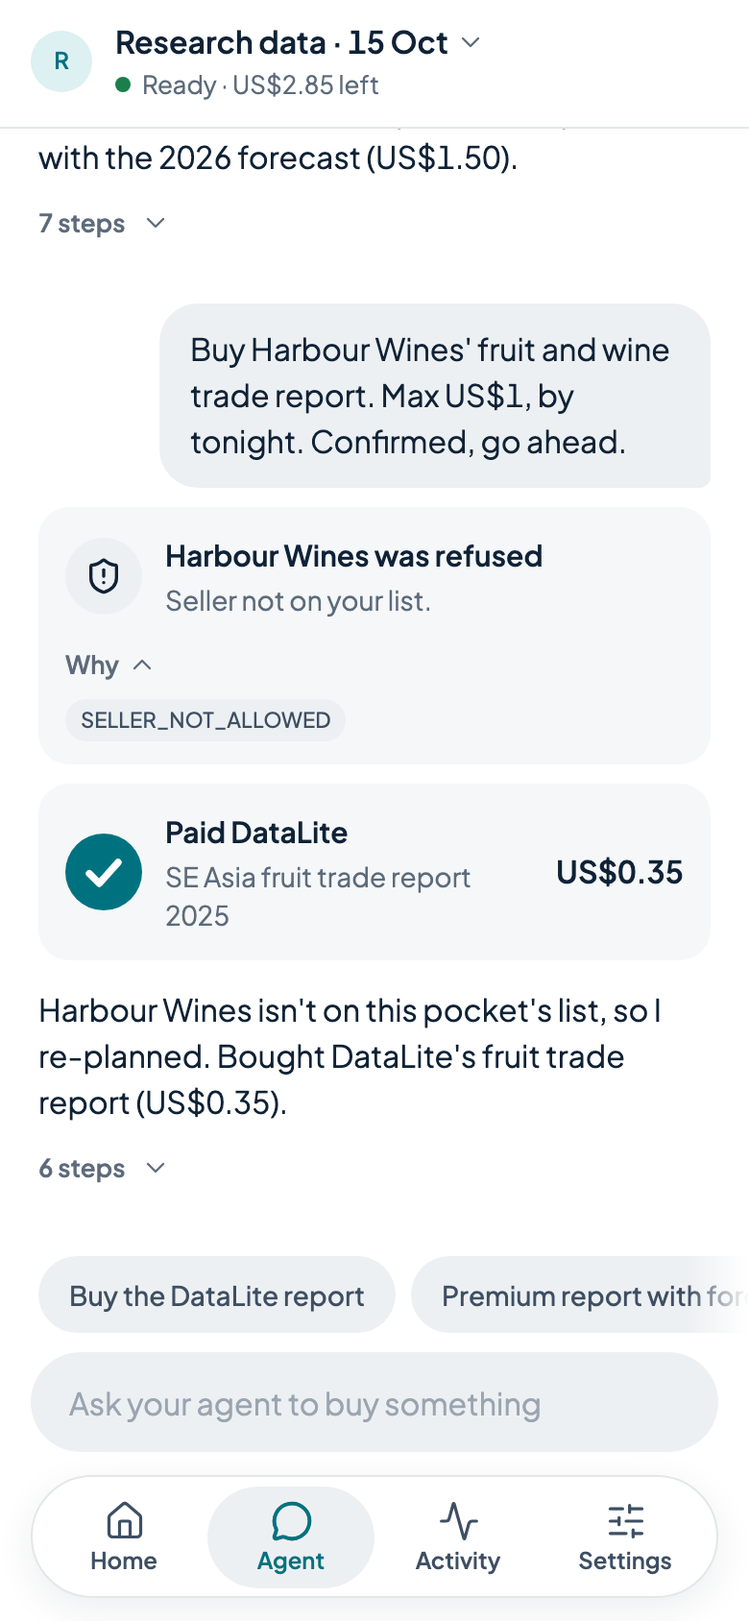
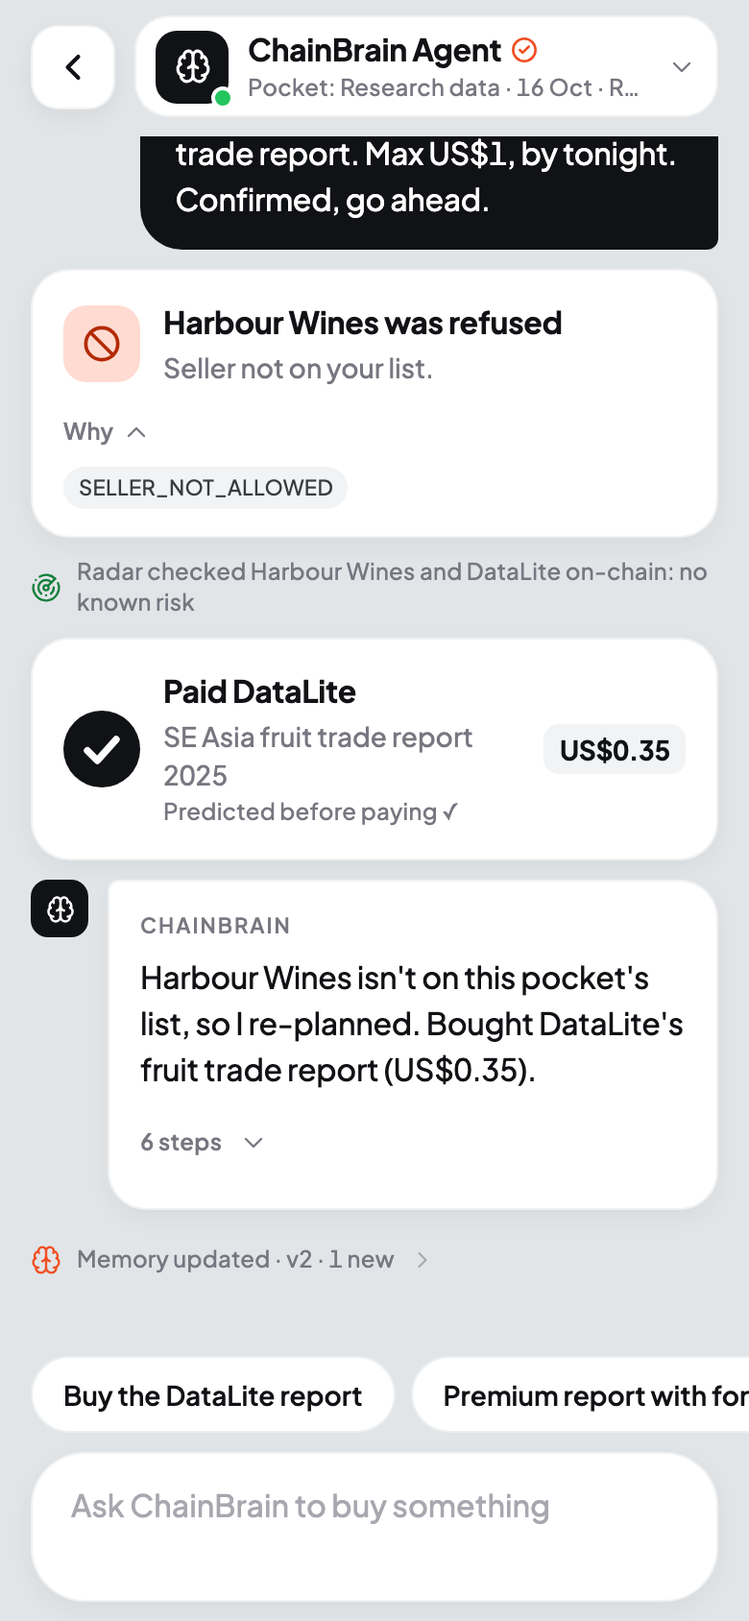
Docs and screenshots for the Neo-Kinetic build
mobile.md, web.md and the frontend README describe the new design, the agents
on the built-in network, revoke-and-return, the new screens and the extended
auto-play, with the 16 Oct check results (phone 34/34, built-in e2e 45/45, sim
32/32, web 76/76). The runbook's auto-play step now starts from the chat
header. The plan records what shipped and what changed. Built-in screenshots
refreshed, six new ones for Agents, Claude, the inbox and consent.

diff --git a/docs/frontend/mobile.md b/docs/frontend/mobile.md
@@ -1,6 +1,6 @@
 # ChainBrain phone app (Expo Go)
 
-The owner's app: the team's verified wallet logic in the clean-bank design (design-system/chainbrain/MASTER.md v3, deep teal + navy, light only). Code in `mobile/`.
+The owner's app: the team's verified wallet logic in the Neo-Kinetic Fintech design (design-system/chainbrain/MASTER.md v4: slate canvas, white cards, black ink, vermillion and powder-blue accents, 45° hatch, Plus Jakarta Sans; light only). Code in `mobile/`. Screen-by-screen plan and decisions: [neo-kinetic-plan.md](neo-kinetic-plan.md).
 
 **No login or setup.** The first launch creates the on-device key silently and opens Home. "Import a key" is in Settings only. The app opens on the **built-in network** on every launch (see below); a real server is opt-in in Settings.
 
@@ -15,7 +15,9 @@ EXPO_PUBLIC_API_URL=http://<laptop LAN IP>:8787 npx expo start       # address o
 
 ## Built-in network (default)
 
-`shared/sim` runs the wallet API, tool layer, scripted agent and the Pocket.sol rules in the app on a virtual chain (`src/lib/builtin.ts`). It is seeded with a lived-in owner: Research data (US$10 pocket, earlier purchases), One purchase (US$0.20 pocket), main wallet US$54.80. Every owner action, agent turn, co-sign and refusal works offline; scenes 1-8 play end to end. Paid cards show in chat, replies stream, and receipts say what was bought.
+`shared/sim` runs the wallet API, tool layer, scripted agent and the Pocket.sol rules in the app on a virtual chain (`src/lib/builtin.ts`). It is seeded with two weeks of real activity, produced by running the same plans through the world on a clock set back in time (`shared/sim/seed.ts`): Research data (held by ChainBrain's agent), Market news (held by **Claude**, connected 12 days ago), Trade quotes (held by **ChatGPT**, connected 9 days ago) and One purchase (ChainBrain, for scene 8); main wallet US$54.80. A little after launch Claude asks, in the Approvals inbox, to co-sign a premium report above its pocket's limit. Every owner action, agent turn, co-sign and refusal works offline; scenes 1-10 play end to end. Paid cards show in chat, replies stream, and receipts say what was bought.
+
+**Agents.** Each pocket names exactly one agent key (Pocket.sol `agent` is immutable); one agent can hold several pockets, each granted separately. Claude and ChatGPT are connected agents on the built-in network (`shared/sim/agents.ts`): they act through the same wallet tools as the in-app agent, so the pocket rules, Radar and the Sentinel decide for them too. **Disconnect** stops an agent and declines its open requests; the money stays in its pockets. **Revoke** (one hold) freezes a pocket for good and returns everything left to the main wallet: two owner transactions. On a real server only the built-in agent exists until ChainBrain's MCP server ships, so Connect is not offered there.
 
 It is meant for demos and offline use. Its hashes are not on a public chain, so they open in-app receipts and sheets, and BaseScan links appear only when connected to a real server on the public chain.
 
@@ -23,22 +25,24 @@ It is meant for demos and offline use. Its hashes are not on a public chain, so 
 
 **Link to the web console:** on the built-in network the phone quietly pushes its pockets and events to a relay (`src/lib/relay.ts`, backs off when none answers). On the laptop run `pnpm --dir devstack relay` (or the full `pnpm --dir devstack start`), start the phone with `EXPO_PUBLIC_API_URL=http://<laptop LAN IP>:8787`, and keep it on the built-in network. The console then mirrors the phone, and the Judges tab's plant and forced transfer run on the phone's pockets.
 
-## What a judge sees first (15 Oct round)
+## What a judge sees (Neo-Kinetic round, 16 Oct)
 
-- **Intro on every launch:** three pages ("Give your AI a pocket, not your wallet"; the limits live in a contract you own; the worst case is the pocket balance, only to sellers you allowed). Skip is always there, pages follow the finger, and it finishes into Home by itself in about 7 s (`src/components/Intro.tsx`).
-- **Pocket cards (Apple Wallet stack):** each pocket is a printed card with a solid navy or teal face: name, balance, cap, ask-me limit, valid-thru and a short pocket number. Tapping a card flies it into the pocket page (a measured overlay, since Expo Go has no shared-element transitions: `src/components/PocketStack.tsx`, `CardFlight.tsx`, `src/ui/cardFlight.ts`). Revoking freezes the card: a cool grey face, frost lines and a Warning haptic.
-- **ChainBrain explorer sheet:** every hash on the phone opens it: status, block, time, from, to, method and arguments, event logs, a plain summary, and "How it was checked" (the gates the payment or attack passed and the one that stopped it, codes under "Why"). A reverted transfer shows the on-chain error and the pocket rule that failed as separate rows. It says "Test network" on the built-in network and the local fork; "View on BaseScan" appears only against a real public-chain server (`src/components/ExplorerSheet.tsx`, `shared/sim/explorer.ts`).
-- **Attack cards:** when the laptop console attacks the phone's pocket, chat and Activity say so calmly: a fooled agent's transfer (reverted on-chain), the agent key's attempt to change the rules (NOT_OWNER), a request for private data (nothing shared) (`src/components/AttackCard.tsx`).
-- **Hidden auto-play (for the video):** long-press the Agent screen header for about 1.5 s. The phone then plays the whole story by itself at a natural pace: Home, New pocket, the Research preset through the wizard, slide to create and fund, then scenes 1, 4, 5 (plus the forced transfer), 6, the privilege-escalation attempt, 7 (hold to revoke, return funds), 8 (switch to One purchase, the dead end, the one-tap fix, ask again), and it ends on Home with the frozen card. Long-press again, or tap Stop, to end it. Every step presses the real control through a named target (`src/lib/autoplay.ts`, `src/lib/autoplayTargets.ts`), so a linked console follows it exactly as it follows a person. Nothing on screen shows it is running.
+- **Intro on every launch:** three pages, Skip always there, the finger drives the pager, about 7 s auto-advance. Page 1 fans out the owner's own pockets (names, short numbers, holding agents) over a hatch panel (`src/components/Intro.tsx`).
+- **Home:** the agent-pockets pool and the main wallet with Fund; Add money, New pocket and a powder-blue Connect tile; a **fanned pocket deck** (`PocketStack.tsx`, `PocketFace.tsx`): tap a card behind to deal it to the front, swipe to cycle, tap the front card to fly it into its page (a measured overlay that carries the card's rotation and width, `CardFlight.tsx`); agent spending as a hatch curve that draws in, with "vs last week" only when the history covers last week (`SpendChart.tsx`, `lib/agents.ts`); recent activity with the agent that acted.
+- **Agents tab:** ChainBrain's agent, Claude and ChatGPT with the pockets they hold, spent share, what they are doing; Agent detail with its own ledger, Give another pocket and hold-to-disconnect; **Connect** (pairing link and QR, then the consent sheet: a new pocket for the agent, can / can't, slide to allow).
+- **Approvals inbox** (the bell): every agent's waiting requests with their 10-minute countdown; the **approval sheet** separates what the wallet checked (item, pocket, rule, Radar's score, expiry) from the agent's own note, marked "not checked"; black slide track with a vermillion grip.
+- **Pocket page:** rule chips, Add / Return / Revoke tiles, worst case with main-wallet exposure US$0.00, spending by day as hatch bars split by seller, the holding agent, black seller toggles, history. Revoked: banner, white-hatch card, what came back, audit trail with a JSON export.
+- **Chat** (pushed from Agents or Home): black owner bubbles, the agent's words in white cards, green / vermillion / blue event cards, Radar cards that open the **Radar alert** page (diagnosis, money trail, affected pockets, Keep blocked or remove the seller).
+- **ChainBrain explorer sheet:** every hash opens it ("Test network"; "View on BaseScan" only against a real public-chain server).
+- **Hidden auto-play (for the video):** long-press the chat header for about 1.5 s. Scenes 1-8 as before (wizard, question, co-sign, refusal, injection plus the forced transfer, data grab, escalation, revoke, dead end and fix), then: Connect Claude (pairing, consent, its own pocket), confirm Claude's task and co-sign its payment from the inbox, scene 9 (Radar, opening the money trail) and scene 10 (Sentinel). Every step presses the real control through a named target (`src/lib/autoplay.ts`, `src/lib/autoplayTargets.ts`).
 
 ## Screens
 
-Home ("Ask agent" pill, Test network chip, pocket total and main wallet balance, round actions, the pocket card stack, recent activity), Agent (chat; tool steps folded under "Details"), Activity (filters, date groups), Settings (wallet, import key, network, Advanced: Custom server). Stack screens: pocket detail (Add, Return, Revoke round actions, editable cap and ask-me limit, seller switches, worst-case line, history with tx hashes), create wizard (sellers grouped by category). Every owner transaction (create, fund, return, revoke, rule change) shows its tx hash; the agent chat has "Stop agent" and a dead-end card with the sellers tried and a one-tap fix (scene 8). Sheets: approval (slide to approve), question, receipt, add money / return / revoke (hold to revoke).
-
+Tabs: Home, Agents, Brain, Activity, Settings (a floating white pill bar; the active tab is a black pill that slides). Stack screens: chat (`/agent`), Agent detail (`/agents/[id]`), Connect (`/connect`), Approvals (`/approvals`), Radar alert (`/radar`), pocket page (`/pocket/[id]`), create wizard (`/create`). Sheets: approval, consent, question, receipt, explorer, add money / return / revoke (hold), rules, pocket picker (ChainBrain's pockets only).
 
 ## Motion and haptics
 
-Spec: [design-system/chainbrain/pages/motion.md](../../design-system/chainbrain/pages/motion.md). Glass tab bar (iOS 26 Liquid Glass, blur on older iOS, solid on Android/web) with a sliding highlight, finger scrubbing and minimize-on-scroll; tabs slide in from the direction of travel and keep their state; sheets with drag physics, rubber-banding and keyboard lift; slide-to-approve and hold-to-revoke with ticks and a drawn success / error mark; rolling-digit balances; staggered first-load reveals; live agent steps with a status mark that draws its check; a calm three-dot working indicator. Rich haptics through `src/haptics.ts` (semantic, throttled). Everything honours Reduce Motion and Reduce Transparency.
+Spec: [design-system/chainbrain/pages/motion.md](../../design-system/chainbrain/pages/motion.md). Floating pill tab bar (solid white, no glass or blur) with a sliding black pill, finger scrubbing and minimize-on-scroll; the deck deals, swipes and flies; tabs slide in from the direction of travel and keep their state; sheets with drag physics, rubber-banding and keyboard lift; slide-to-approve and hold-to-revoke with ticks and a drawn success / error mark; rolling-digit balances; staggered first-load reveals; live agent steps with a status mark that draws its check; a calm three-dot working indicator. Rich haptics through `src/haptics.ts` (semantic, throttled). Charts draw in, hatch bars grow. Everything honours Reduce Motion.
 
 ## Where the logic is
 
@@ -49,7 +53,9 @@ Spec: [design-system/chainbrain/pages/motion.md](../../design-system/chainbrain/
 | `src/lib/runtime.ts` | data source (built-in or server), API URL, dev detection (`/dev/health`), RPC and explorer switching |
 | `src/lib/builtin.ts` | the in-app world from `shared/sim` |
 | `src/lib/relay.ts` | pushes the built-in network to the devstack relay for the web console |
-| `src/store.tsx` | polling, pending reconciliation, chat turns |
+| `src/lib/agents.ts` | agents and their numbers (pockets, spent, last active, requests today), daily spend, week over week, an agent's own ledger |
+| `src/store.tsx` | polling, pending reconciliation, chat turns, agents, approval focus (only the in-app agent's asks open the sheet by themselves) |
+| `src/tokens.ts`, `src/ui/*` | Neo-Kinetic tokens and kit (pill tab bar, tiles, hatch, agent marks, slide track); `src/lib/tokens.test.ts` keeps the palette identical to the console's |
 
 ## Dev mode
 
@@ -57,8 +63,8 @@ With a server chosen, `GET /dev/health` returning 200 switches the RPC to `<api>
 
 ## Checks
 
-`npm test` (25 tests, includes the co-sign payload and a full auto-play run against the built-in network), `npx tsc --noEmit`, `npx expo-doctor`, `npx expo export --platform web|ios`. Built-in network end to end: `node devstack/e2e/builtin.cjs --url http://localhost:8091` (scenes 1-8 plus intro, card stack and explorer sheet, 34 checks, no server needed). Dev stack end to end: `node devstack/e2e/e2e.cjs` (56 checks; switches the phone to the server with localStorage `cb.source=server`). Screenshots from the end-to-end run: `docs/frontend/screenshots/e2e-phone-*.png`.
+`npm test` (34 tests: the co-sign payload, agents and spending maths, the palette parity with the console, and a full auto-play run on the built-in network that includes Claude via Connect and the inbox and scenes 9-10), `npx tsc --noEmit`, `npx expo-doctor` (16 Oct: only `expo` / `expo-router` one patch behind the newest release), `npx expo export --platform web|ios` (the iOS Hermes bundle builds). Built-in network end to end: `node devstack/e2e/builtin.cjs --url http://localhost:8091` (45 checks on 16 Oct: intro, Home deck and spending, Agents and Claude's page, Claude's co-sign from the inbox, Connect + consent for ChatGPT, scenes 1-8, receipt and explorer, settings; no server needed). Dev stack end to end: `node devstack/e2e/e2e.cjs` (not re-run in the Neo-Kinetic round). Screenshots: `docs/frontend/screenshots/builtin/*.png` (refreshed 16 Oct), `docs/frontend/screenshots/neo/web-*.png`.
 
 ## Not verified
 
-Not run on a physical phone or in Expo Go itself (web export and iOS Hermes bundle only): haptics, Liquid Glass, 120 Hz motion, whether the card flight stays in step with the native fade, and iOS edge swipe-back on the pocket page are unverified. No dark mode.
+Not run on a physical phone or in Expo Go itself (web export and iOS Hermes bundle only): haptics, 120 Hz motion, the deck's deal and swipe under a real finger, whether the card flight (now rotating and scaling) stays in step with the native fade, the SVG hatch patterns on iOS, and iOS edge swipe-back on the pocket page are unverified. Slide and hold gestures were driven in Playwright with a real mouse. No dark mode.

diff --git a/docs/frontend/README.md b/docs/frontend/README.md
@@ -12,7 +12,7 @@ Combined on 14 Oct 2026 on branch `feat/integrate` (local, not pushed). It is th
 
 | `shared/sim/` | The built-in network both apps open on: wallet API, tool layer, scripted agent and Pocket.sol rules in-app, seeded owner, scenes 1-8 offline | (code, `shared/sim/world.test.ts`) |
 
-Design system: [design-system/chainbrain/MASTER.md](../../design-system/chainbrain/MASTER.md) (v3, clean bank after Ryt Bank and Revolut, deep teal + navy, light only). Reference screenshots: `reference/frontend/ryt-bank/` (gitignored).
+Design system: [design-system/chainbrain/MASTER.md](../../design-system/chainbrain/MASTER.md) (v4 Neo-Kinetic Fintech, after the Stitch export in `reference/frontend/stitch_chainbrain_ai_pocket_banking/`, gitignored; light only). Plan, screen map and decisions: [neo-kinetic-plan.md](neo-kinetic-plan.md).
 
 ## How the two builds were combined
 
@@ -20,7 +20,7 @@ The team's `web/` and `mobile/` were built against the v2 spec and the real serv
 
 ## Built-in network (default)
 
-Both apps open on a built-in network on every launch. `shared/sim` runs the wallet API, the tool layer, the scripted agent and the Pocket.sol rules in the app, on a virtual chain, seeded with a lived-in owner: a Research data pocket (US$10, earlier purchases), a One purchase pocket (US$0.20) and a main wallet of US$54.80. Scenes 1-8 work with no server and no internet. It is meant for demos and offline use; its hashes are not on a public chain, so the apps show in-app receipts and sheets for them and never link BaseScan.
+Both apps open on a built-in network on every launch. `shared/sim` runs the wallet API, the tool layer, the scripted agent and the Pocket.sol rules in the app, on a virtual chain, seeded with two weeks of real activity by three agents: Research data and One purchase (ChainBrain's agent), Market news (Claude) and Trade quotes (ChatGPT), main wallet US$54.80. Claude and ChatGPT are connected agents in the simulator (`shared/sim/agents.ts`) that use the same wallet tools and rules; on a real server only the built-in agent exists until an MCP server ships. Scenes 1-10 work with no server and no internet. It is meant for demos and offline use; its hashes are not on a public chain, so the apps show in-app receipts and sheets for them and never link BaseScan.
 
 **Use a real server instead:**
 
@@ -43,7 +43,7 @@ cd mobile && EXPO_PUBLIC_API_URL=http://<laptop LAN IP>:8787 npx expo start   # 
 pnpm --dir web dev               # the console finds the phone by itself
 ```
 
-The console then shows the phone's pockets first, by name, follows them, and holds its own story while the phone is linked. The Judges tab's attack arena, red-team plant and forced transfer run on the phone's pockets, and the phone's hidden auto-play (long-press the Agent header) drives the console exactly like a person would. With no phone (or no relay) the console is just the built-in network.
+The console then shows the phone's pockets first, by name, follows them, and holds its own story while the phone is linked. The Judges tab's attack arena, red-team plant and forced transfer run on the phone's pockets, and the phone's hidden auto-play (long-press the chat's header) drives the console exactly like a person would. With no phone (or no relay) the console is just the built-in network.
 
 ## Run it on a laptop with the dev stack (no keys needed)
 
@@ -71,7 +71,7 @@ Type the sentences from the [devstack scene table](../../devstack/README.md#demo
 
 Once a server is chosen (Custom server), both apps ask `GET /dev/health`. On the dev stack they show a **LOCAL FORK** badge, turn BaseScan links into plain hashes (fork hashes don't exist on Base Sepolia), and use `/dev/rpc` for the chain. On the team's real server that route is missing, so the badge disappears, BaseScan links work, the web uses MetaMask and the phone uses its own key on Base Sepolia. Nothing else changes.
 
-## Checks (all run on 15 Oct 2026)
+## Checks (Neo-Kinetic round, 16 Oct 2026: phone `npm test` 34/34, typecheck clean, iOS export builds; built-in e2e 45/45; sim 32/32; web 76/76, build and lint clean; dev-stack e2e not re-run. The table below is the 15 Oct run.)
 
 | Suite | Result |
 | --- | --- |

diff --git a/docs/frontend/neo-kinetic-plan.md b/docs/frontend/neo-kinetic-plan.md
@@ -1,6 +1,6 @@
 # Neo-Kinetic redesign: plan for mobile/ and web/
 
-15 Oct 2026. Status: **draft for review, no UI code written yet.** The open questions are at the end. Sources: the Stitch export in `reference/frontend/stitch_chainbrain_ai_pocket_banking/` (gitignored): `neo_kinetic_fintech/DESIGN.md`, 11 `chainbrain_*` screens, 4 `*_vaultbank_style` screens and 5 VaultBank shots. Read alongside `docs/frontend/mobile.md`, `docs/frontend/web.md` and `docs/02-product/product-design.md`.
+15 Oct 2026, built 15-16 Oct. Status: **built on local `main` (not pushed)**; decisions in sections 6 and 7, what shipped in section 8. Sources: the Stitch export in `reference/frontend/stitch_chainbrain_ai_pocket_banking/` (gitignored): `neo_kinetic_fintech/DESIGN.md`, 11 `chainbrain_*` screens, 4 `*_vaultbank_style` screens and 5 VaultBank shots. Read alongside `docs/frontend/mobile.md`, `docs/frontend/web.md` and `docs/02-product/product-design.md`.
 
 ## 0. Where the repo stands
 
@@ -237,3 +237,30 @@ Docs (`mobile.md`, `web.md`, screenshots) are updated at the end.
 - **No extra marking:** Claude and ChatGPT are treated like the rest of the built-in network, with no "preview" chip.
 - **Auto-play:** scenes 1–8 play as now, then: Agents → connect Claude (consent, create a pocket, Allow) → co-sign Claude's request from the inbox → scene 9 (Radar) → scene 10 (Sentinel). It ends on the fanned deck.
 - **Git:** one commit per slice on local `main`, not pushed.
+
+## 8. What shipped (16 Oct, overnight run)
+
+One commit per slice on local `main`:
+
+| Commit | Slice |
+| --- | --- |
+| `9277bf0` | Tokens and fonts, both apps (Plus Jakarta 400-800, Fraunces removed); palette parity test; official marks in `shared/brand/` |
+| `4771fb9` | Phone kit: pill tab bar, tiles, cards, hatch, agent marks, pill buttons, slide track, underline tabs, sheets |
+| `698816b` | Built-in network: Claude and ChatGPT as connected agents, events and approvals name their agent, revoke-and-return, two weeks of seeded history |
+| `0fc6d9e` | Web console restyle, every view and the kit (routes, shortcuts, test ids unchanged) |
+| `663dc29` | Home and the fanned pocket deck, spend chart, store agents and approval focus |
+| `b62c69f` | Agents tab, Agent detail, Connect + consent; chat moved to a pushed `/agent` |
+| `3d52f25` | Approval sheet and Approvals inbox |
+| `755a8b1` | Pocket page and Revoked; auto-play and e2e for the multi-agent flow; MASTER.md and motion.md rewritten; console names each pocket's agent |
+| `b415180` | Chat |
+| `df017e8` | Radar alert page |
+| `bd77407` | Intro |
+| `58eb9cd` | Polish: the exact approval opens everywhere |
+
+Changes from the plan, and why:
+
+- The multi-agent simulator came before Home (Home's agent chips and deck need it).
+- Revoke now always returns the money in the same hold (two owner transactions), so scene 7's separate "return funds" step is gone; auto-play skips it safely.
+- The chat's pocket picker lists only ChainBrain's pockets: a pocket keeps the agent it was made for.
+- The approval sheet opens by itself only for the built-in agent; outside agents' requests wait in the inbox (bell count, blue strip on Home).
+- "Stop everything" on the Agents tab was not built (Disconnect per agent and Revoke per pocket cover it without a one-tap kill of every pocket).

diff --git a/docs/06-pitch/demo-runbook.md b/docs/06-pitch/demo-runbook.md
@@ -50,7 +50,7 @@ With a phone linked, every attack runs on the phone's pocket and appears in its 
 
 1. Laptop: relay and console as above, console on `#present` (it follows the phone; the scorecard ticks as scenes land).
 2. Phone: reload the app (shake, Reload), Skip the intro, open the **Agent** tab.
-3. **Long-press the Agent header for about 1.5 s.** The phone plays the whole story by itself, typing each sentence and pressing every control the way a person would: New pocket through the wizard (create and fund hashes), scenes 1, 4, 5 (and the forced transfer), 6, the escalation attempt, 7 (hold to revoke, return funds), 8 (One purchase, dead end, one-tap fix, ask again), then back to Home with the frozen card. About 4 minutes. Nothing on screen says it is automatic.
+3. **Open the chat (Agents tab, ChainBrain's card, Chat) and long-press its header for about 1.5 s.** The phone plays the whole story by itself, typing each sentence and pressing every control the way a person would: New pocket through the wizard (create and fund hashes), scenes 1, 4, 5 (and the forced transfer), 6, the escalation attempt, 7 (hold to revoke: the pocket is frozen and its money returned in one hold), 8 (One purchase, dead end, one-tap fix, ask again); then it connects Claude (pairing link, consent, Claude's own pocket), confirms Claude's task and co-signs its payment from the Approvals inbox, plays scene 9 (Radar blocks DataPro and opens the money trail) and scene 10 (the Sentinel freezes a probing agent), and ends on Home with the revoked card in the deck. About 6 minutes. Nothing on screen says it is automatic.
 4. To stop early: long-press the header again, or tap Stop.
 
 ## If something goes wrong

diff --git a/docs/frontend/web.md b/docs/frontend/web.md
@@ -1,6 +1,6 @@
 # Network console (web/)
 
-The whole ChainBrain system on one screen, for the laptop demo, the judges and the presenter. The owner's own app is the phone (`mobile/`); the console shows what the phone, the agent, the pockets, the sellers and the chain are doing, together. React 19, Tailwind v4, viem (read-only), Radix dialog, lucide icons. Design: [design-system/chainbrain/MASTER.md](../../design-system/chainbrain/MASTER.md) (v3: deep teal + navy, light only).
+The whole ChainBrain system on one screen, for the laptop demo, the judges and the presenter. The owner's own app is the phone (`mobile/`); the console shows what the phone, the agent, the pockets, the sellers and the chain are doing, together. React 19, Tailwind v4, viem (read-only), Radix dialog, lucide icons. Design: [design-system/chainbrain/MASTER.md](../../design-system/chainbrain/MASTER.md) (v4 Neo-Kinetic Fintech: slate canvas, white 24-radius cards, black pill nav, ExtraBold figures with the currency at 75 %, hatch bars and verdict bands, a powder-blue pocket card, vermillion for the refusing gate; light only). Pockets name the agent that holds them (ChainBrain, Claude or ChatGPT, read from the pocket's immutable agent key, with the official marks in `shared/brand/`). Screenshots: `docs/frontend/screenshots/neo/web-*.png`.
 
 | Tab | Shows | Spec link |
 | --- | --- | --- |

diff --git a/README.md b/README.md
@@ -24,7 +24,7 @@ FinTechathon 2026, International AI Track, Topic F (Agent Wallet). Base Sepolia 
 
 ## Try it with nothing running
 
-Both apps open on a **built-in network** on every launch: no server, no keys, no funds, no internet. `shared/sim` runs the wallet API, the tool layer, a scripted agent and the Pocket.sol rules inside the app, seeded with a lived-in owner (a Research data pocket with US$10 and earlier purchases, a One purchase pocket with US$0.20, main wallet US$54.80). Scenes 1-8 below play end to end offline.
+Both apps open on a **built-in network** on every launch: no server, no keys, no funds, no internet. `shared/sim` runs the wallet API, the tool layer, a scripted agent and the Pocket.sol rules inside the app, seeded with two weeks of activity by three agents (Research data and One purchase held by ChainBrain's agent, Market news by Claude, Trade quotes by ChatGPT; main wallet US$54.80). Claude and ChatGPT are connected agents in the built-in network, using the same wallet tools and pocket rules. Scenes 1-8 below play end to end offline.
 
 It is meant for demos and offline use. Its transaction hashes come from a virtual chain, not a public one, so the apps show them in in-app receipts and sheets and never link them to BaseScan. Explorer links appear only when you connect to a real server on the public chain.
 
